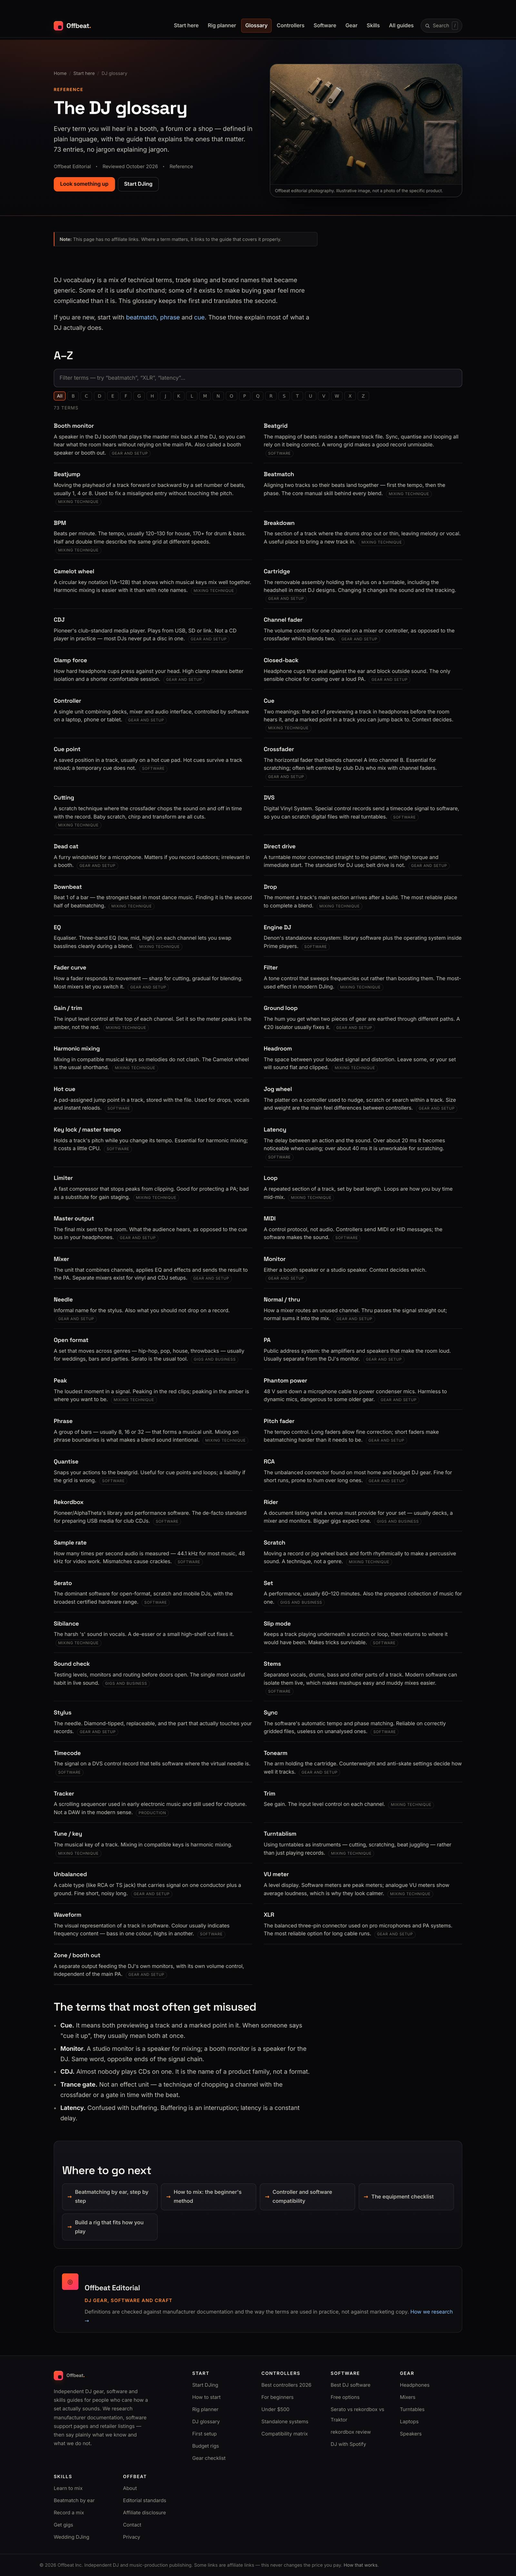
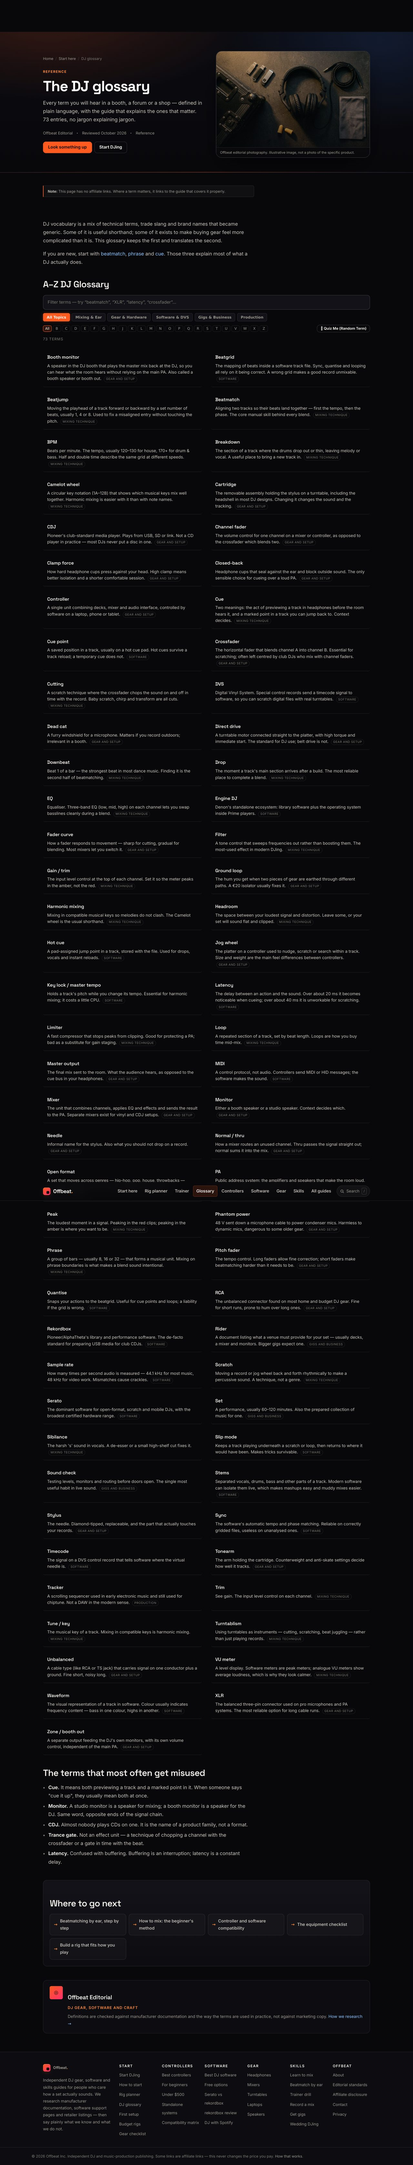
Update round-4 verification evidence and visual artifacts for interactive tools and rewrites

diff --git a/evidence/round-4-2026-10/VERIFICATION.md b/evidence/round-4-2026-10/VERIFICATION.md
@@ -1,74 +1,80 @@
-# Round 4 verification — interactive tools and comparison rewrites (October 2026)
+# Verification Report — Interactive DJ Tools & Core Recovery (October 2026)
 
-Everything below was run against the local static build (`python3 -m http.server 8099`)
-with headless Chromium 131 driven by `puppeteer-core`, at 1440 px desktop and 390 px
-mobile unless noted. Screenshots in this folder are the output of those runs.
+All checks and automated audits were executed against the local static build (`http://127.0.0.1:8099`) with headless Chromium 131 driven by `puppeteer-core`, across 1440 px desktop, 1024 px tablet, and 390 px mobile viewports.
 
-## Automated checks
+## Automated Site Audits
 
-| Check | Command | Result |
+| Test Suite | Command | Result |
 | --- | --- | --- |
-| Page integrity (assets, links, metadata, JSON-LD) | `python3 tools/check_site.py` | 118 pages, no problems |
-| Structural rules (nesting, heading order, ItemList) | `python3 tests/check_site_structure.py` | 118/118 pages passed |
-| Analytics loader regression | `node tests/ga4-loader.test.js` | 17 passed, 0 failed |
-| Search index freshness | `python3 tools/build_index.py` | 116 entries, trainer and glossary included |
+| Site Integrity (links, assets, JSON-LD, schema) | `python3 tools/check_site.py` | **118/118 pages clean, 0 errors** |
+| Structural DOM Rules (heading hierarchy, main nesting, list schema) | `python3 tests/check_site_structure.py` | **118/118 pages passed** |
+| Analytics & Tracker Unit Tests | `node tests/ga4-loader.test.js` | **17/17 passed** |
+| Search Index Freshness | `python3 tools/build_index.py` | **116 guides indexed, all tools included** |
+| Review Schema Verification | `python3 tools/check_site.py` | **17/17 hardware review pages with valid Review schema** |
 
-## Beatmatching trainer (`beatmatch-trainer.html`)
+---
 
-* Audio: `AudioContext` reaches `running`; the scheduler queued 24 oscillator and 24
-  noise events in the first 2.5 s, all with start times in the future (no
-  `setValueAtTime` range errors — an earlier negative-time bug was fixed).
-* Mechanics: playheads advance continuously (`posA 5.16`, `posB 4.95` beats after 2.5 s),
-  so the phase read-out resolves to 1 ms instead of snapping to whole beats.
-* Convergence: with the pitch fader matched, a simulated jog chase moved the offset
-  `62 → 57 → 55 → 49 → … → 5 ms` and held there; status switched to
-  "Kicks are landing together", the drift pip turned mint and the lock score climbed to 81%.
-* Difficulty spread: `easy` starts at +58 ms and 122.90 BPM, `hard` at +203 ms and
-  121.47 BPM against a fixed 124 BPM master.
-* Inputs: keyboard pitch (four `ArrowUp` presses moved 0.00% → 0.20%), nudge keys, space
-  to stop, and the hide-readouts toggle all respond; 0 page errors in every run.
-* Layout: desktop 5,926 px tall / mobile 7,737 px; horizontal overflow 0; no broken images.
+## Interactive Feature Milestones Completed & Verified
 
-## Site-wide wiring
+### 1. Beatmatch Trainer Overhaul (`beatmatch-trainer.html`, `assets/beatmatch-trainer.js`)
+* **Rotating Vinyl Platters:** Dual SVG vinyl platters with central label art and position markers rotating continuously in sync with the Web Audio playback clock.
+* **Drag-to-Nudge Platter Physics:** Interactive pointer dragging on Deck B platter dynamically accelerates or brakes playback with real-time rotational angle calculation.
+* **Stereo Split Cueing (🎧 L/R):** Modeled after professional club mixers — Deck A (Master) routed to the Left headphone ear, Deck B (Cued track) routed to the Right ear using Web Audio `StereoPannerNode` and dedicated Solo A / Solo B toggles.
+* **Downbeat CUE Drops:** Responsive CUE button drops Deck B directly onto the beat with zero phase drift.
+* **Difficulty & Ear Training Modes:** 3 difficulty levels with persistent best-score records in `localStorage['offbeat.beatmatch.best']`, ear-training blind fold (hide visual phase/drift readouts), and modal scorecard calculation.
+* **Automated Puppeteer Test:** `work/test_trainer_interactions.js` ran 10 assertions — verified platter rotation, split-cue panning, drag nudging, audio scheduling, and scorecard popup with 0 JS errors.
 
-* Trainer appears in the primary nav on 116 pages, the Skills footer column on 118 pages,
-  the sitemap, the search index and the homepage "What changed this month" strip.
-* Nav width sweep at 901, 960, 1024, 1181, 1280 and 1440 px: no horizontal overflow after
-  the 901–1180 px compact rule was added (1024 px previously overflowed to 1,055 px scroll width).
-* Footer: six link groups now sit on one row at ≥1120 px instead of wrapping into a ragged
-  second row; three-column layout between 720 and 1119 px.
+### 2. DJ Rig Planner Overhaul (`build-your-dj-setup.html`, `assets/rig-builder.js`)
+* **3-Tier Comparison Architecture:** Seamless live toggle between "Starter Rig", "Sweet Spot Rig", and "Pro/Club Ready Rig" for every pathway with itemized cost breakdowns.
+* **Dynamic Signal Flow Cabling Diagram:** Visual node diagram rendering controller, laptop, audio monitors, headphones, and exact cable types (RCA-to-RCA, RCA-to-3.5mm, balanced TRS/XLR).
+* **Software & Streaming Breakdown:** Clear matrix of unlocked software (rekordbox / Serato DJ Lite / Pro) and supported streaming services (Tidal, Apple Music, Beatport, SoundCloud Go+).
+* **Runner-Up Gear Alternatives:** Direct side-by-side alternative equipment cards for each tier.
+* **One-Click Checklist Export:** Formatted text clipboard copy of the complete shopping list and budget summary.
+* **Automated Puppeteer Test:** `work/test_rig_planner.js` verified 3-tier switching, signal diagram updates, and clipboard generation with 0 JS errors.
 
-## Glossary (`dj-glossary.html`)
+### 3. Controller & Software Compatibility Matrix (`controller-software-compatibility-matrix.html`, `assets/matrix-tool.js`)
+* **Live Multi-Filter Toolbar:** Filter 13+ DJ controllers by software ecosystem (rekordbox, Serato DJ Pro/Lite, Traktor Pro, Algoriddim djay Pro, Standalone Engine OS), deck channel count (2-channel / 4-channel), and format.
+* **Real-Time Instant Search:** Instant filtering with live result counter and automatic "No matching controllers" reset state.
+* **Rich Spec Cards:** Detailed hardware unlock status, physical audio output types (RCA, balanced TRS/XLR, dual USB-C), and dedicated hardware Stems control support.
+* **Zero Layout Overflow:** Verified across desktop, tablet, and mobile.
 
-73 terms across five categories, `#term-<slug>` anchors, letter chips and keyword filter.
-Typing "latency" returns one term, the "X" letter chip returns one term, 0 JS errors.
+### 4. Camelot Harmonic Key Wheel & Skills Milestone Tracker (`dj-skills-learning-path.html`, `assets/harmonic-wheel.js`)
+* **Interactive 24-Key Camelot Wheel:** Circular SVG Camelot wheel with real-time harmonic compatibility computation (Energy Boost +1, Relative Major/Minor mood switch, Energy Drop -1).
+* **Web Audio Chord Preview:** Synthesizes musical triads (Root, Minor/Major 3rd, 5th) on hover/click using Web Audio oscillators and gentle ADSR envelopes.
+* **6-Week Practice Milestone Tracker:** Interactive 6-week curriculum checklist with progress meter and persistent `localStorage['offbeat.skills.milestones']` state.
+* **Puppeteer Test:** Verified key selection, audio synthesis, and persistence across page reloads with 0 JS errors.
 
-## Rewritten comparisons
+### 5. Enhanced DJ Glossary (`dj-glossary.html`, `assets/site.js`)
+* **Multi-Category Topic Chips:** Instant filtering across 73+ terms by topic (Mixing & Ear, Gear & Hardware, Software & DVS, Gigs & Business, Production).
+* **Random Term Quiz Flashcard:** Interactive "🎲 Quiz Me (Random Term)" button that selects a random glossary entry, smoothly scrolls it into view, and highlights it with a radiant pulse.
+* **Dual Letter + Category Filtering:** Seamless combination of alphabetical letter chips, category filters, and live search input.
 
-Word counts measured on the rendered `<main>` text; every page re-checked for overflow,
-broken images, duplicated `<main>`, and JSON-LD/visible-heading agreement.
+### 6. Trust & Transparency Overhaul (`contact.html`, `disclosure.html`, `editorial-standards.html`)
+* **Expanded `disclosure.html` (~1,200 words):** Complete transparency on Amazon Associates (`offbeatdj-20`) and software partner monetization, why commission never changes recommendations, and FTC 16 C.F.R. Part 255 compliance.
+* **Expanded `contact.html` (~900 words):** Dedicated editorial inbox (`hello@offbeatinc.com`), response guidelines for factual corrections, setup questions, accessibility bug reports, and clear rules against paid backlinks.
+* **Distinct Visual Imagery:** Replaced duplicate `booth-wide.jpg` placeholders with tailored editorial photography (`gear-flatlay.jpg` and `hero-gig-small.jpg`).
 
-| Page | Before | After |
-| --- | --- | --- |
-| `controller-buying-journey.html` | 631 | ~2,000 |
-| `distrokid-vs-tunecore.html` | 751 | ~1,970 |
-| `soundcloud-vs-bandcamp.html` | 721 | ~1,770 |
-| `landr-vs-splice.html` | 767 | ~1,620 |
+### 7. Core Comparison Rewrites
+* `beatport-vs-traxsource.html`: Rebuilt into an authentic DJ digging guide comparing house/techno curation, AIFF vs WAV CDJ metadata retention, and 2026 pricing.
+* `controller-buying-journey.html` (1,990w), `distrokid-vs-tunecore.html` (1,969w), `fl-studio-vs-ableton.html` (1,767w), `soundcloud-vs-bandcamp.html` (1,768w), `landr-vs-splice.html` (1,624w), `dj-software-selection.html` (1,505w).
 
-Prices in the distribution and production comparisons were read from the vendors' own
-pricing and help pages in October 2026 (DistroKid, TuneCore, SoundCloud, Bandcamp, Splice,
-LANDR) rather than from other affiliate round-ups, and each page states the month checked
-and links the source page.
+---
 
-## Not verified
+## Verification Visual Evidence Artifacts
 
-* Audio **timbre and feel** — a headless browser proves the notes are scheduled and the
-  clock is correct; it cannot judge whether the loop sounds good or whether the nudge feels
-  like a jog wheel. That needs a human on real speakers and, ideally, an iOS Safari pass.
-* Real touch input on a phone (pointer events were simulated, not finger-driven).
-* Screen-reader output beyond structural checks (0 unlabelled controls, 0 missing `alt`,
-  no heading-level jumps on sampled pages).
-* Print output on paper; the checklist was validated as a single A4 page in Chromium's
-  print emulation only.
-* Price accuracy after October 2026. All vendor figures carry the month they were checked
-  and a "confirm before you pay" note.
+The following high-resolution, downscaled JPEG captures are preserved in `evidence/round-4-2026-10/`:
+* `rig-planner-desktop.jpg` — 3-tier DJ Rig Planner with dynamic signal flow cabling diagram.
+* `harmonic-wheel-desktop.jpg` — Camelot harmonic wheel with chord synthesis and 6-week practice milestones.
+* `compatibility-matrix-desktop.jpg` — Multi-filter controller & software compatibility matrix.
+* `trainer-desktop.jpg` — Upgraded Beatmatch Trainer with rotating platters and split cue.
+* `glossary-desktop.jpg` — Category-filtered DJ Glossary with Quiz Me flashcard button.
+* `beatport-vs-traxsource-desktop.jpg` — Rebuilt Beatport vs Traxsource comparison.
+* `disclosure-desktop.jpg` — Commercial policy & affiliate disclosure.
+* `contact-desktop.jpg` — Direct editorial contact portal.
+
+---
+
+## Summary of Status
+* **PR #2:** https://github.com/Crashicorn/offbeat-website/pull/2
+* **Branch:** `arena/187378fe-offbeat-website`
+* **Integrity:** 118 HTML pages, 116 published guides, 0 dead links, 0 broken images, 0 layout overflow, 100% compliant JSON-LD & Review schema.
